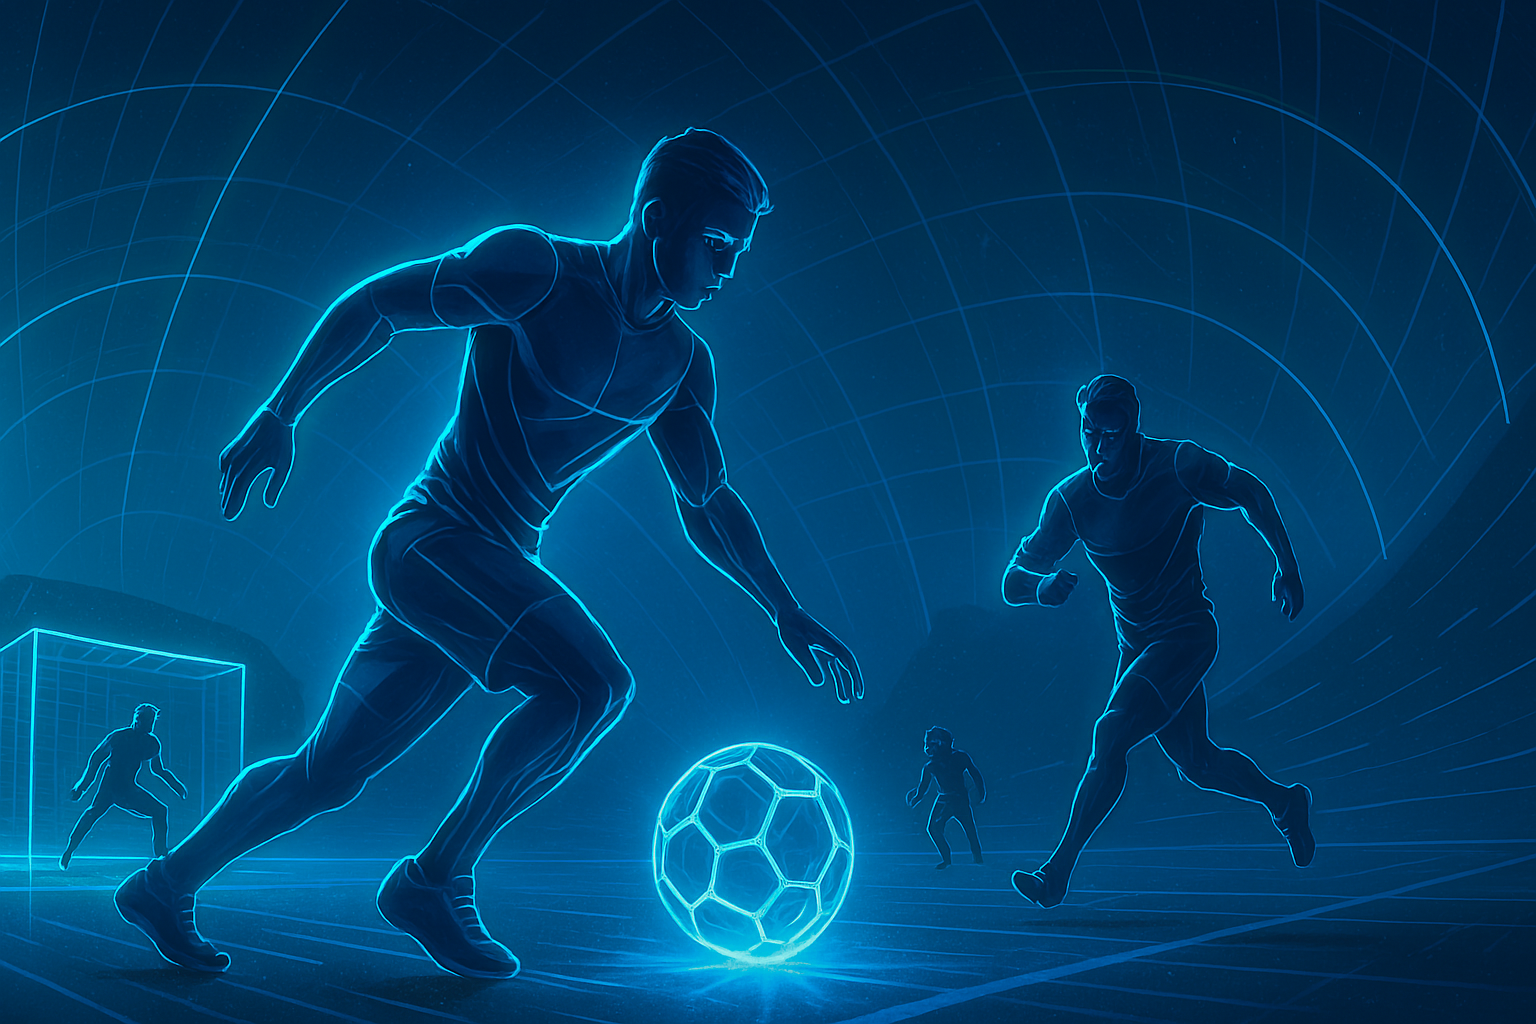
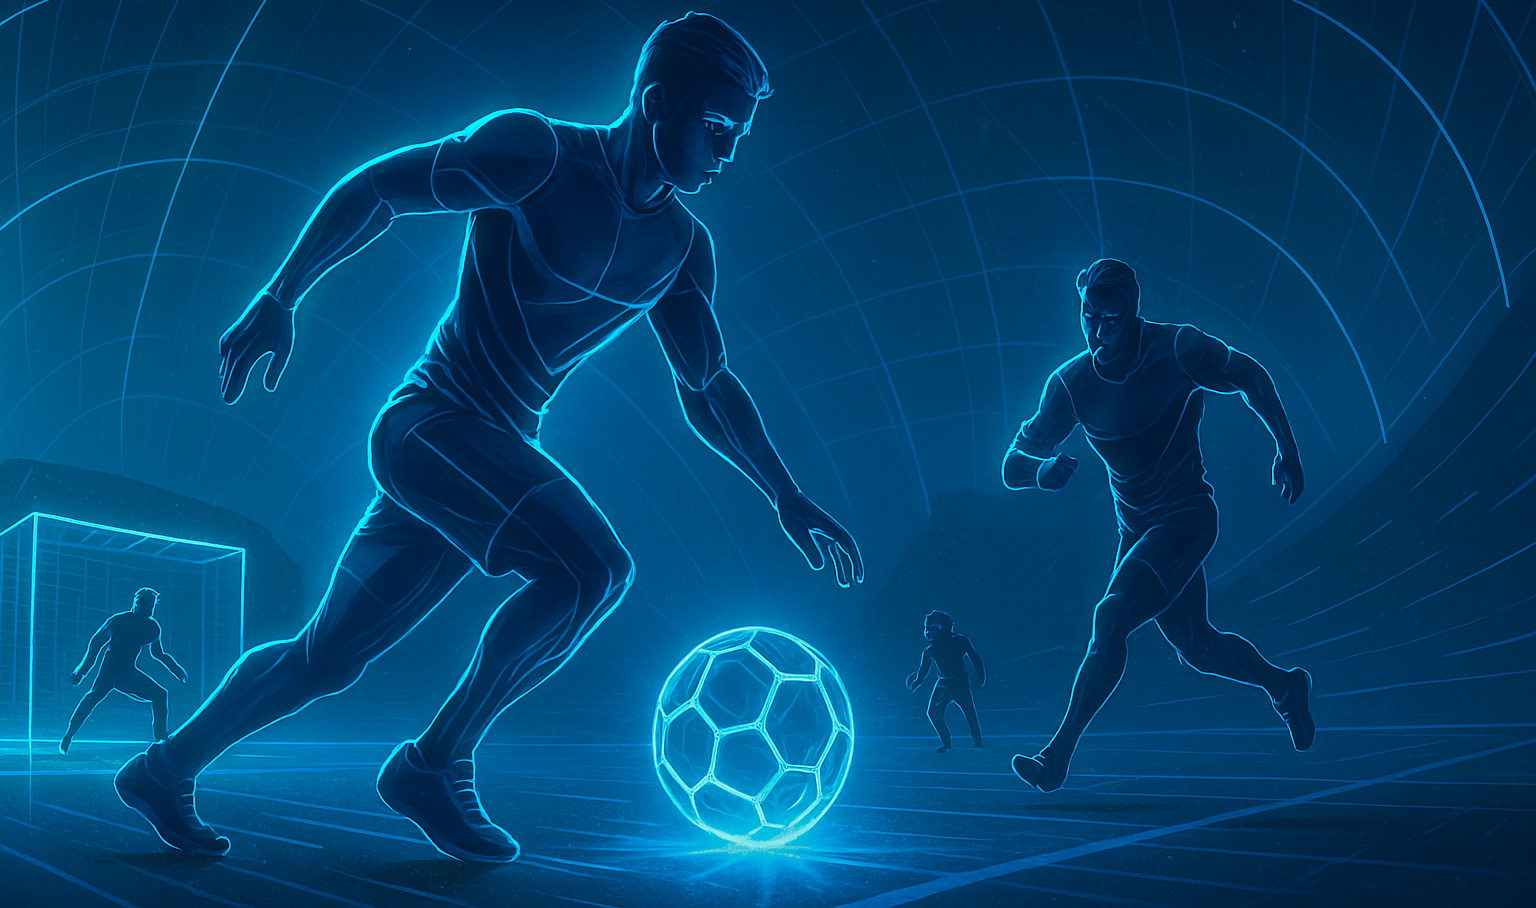
style: 홈페이지 스타일 수정

diff --git a/src/Homepage/HomePage.js b/src/Homepage/HomePage.js
@@ -1,7 +1,7 @@
 import React from "react";
 import { motion } from "framer-motion";
 import "../Homepage/HomePage.css";
-import soccerImage from "../soccer3.png";
+import soccerImage from "../soccer1.png";
 import Header from "../component/Header";
 
 const HomePage = () => {

diff --git a/src/Homepage/HomePage.css b/src/Homepage/HomePage.css
@@ -29,10 +29,10 @@
   overflow: hidden;
 
   /* 항상 하단 고정 */
-  position: fixed;
+  /* position: fixed;
   bottom: 0;
   left: 0;
-  z-index: 1000;
+  z-index: 1000; */
 }
 
 
